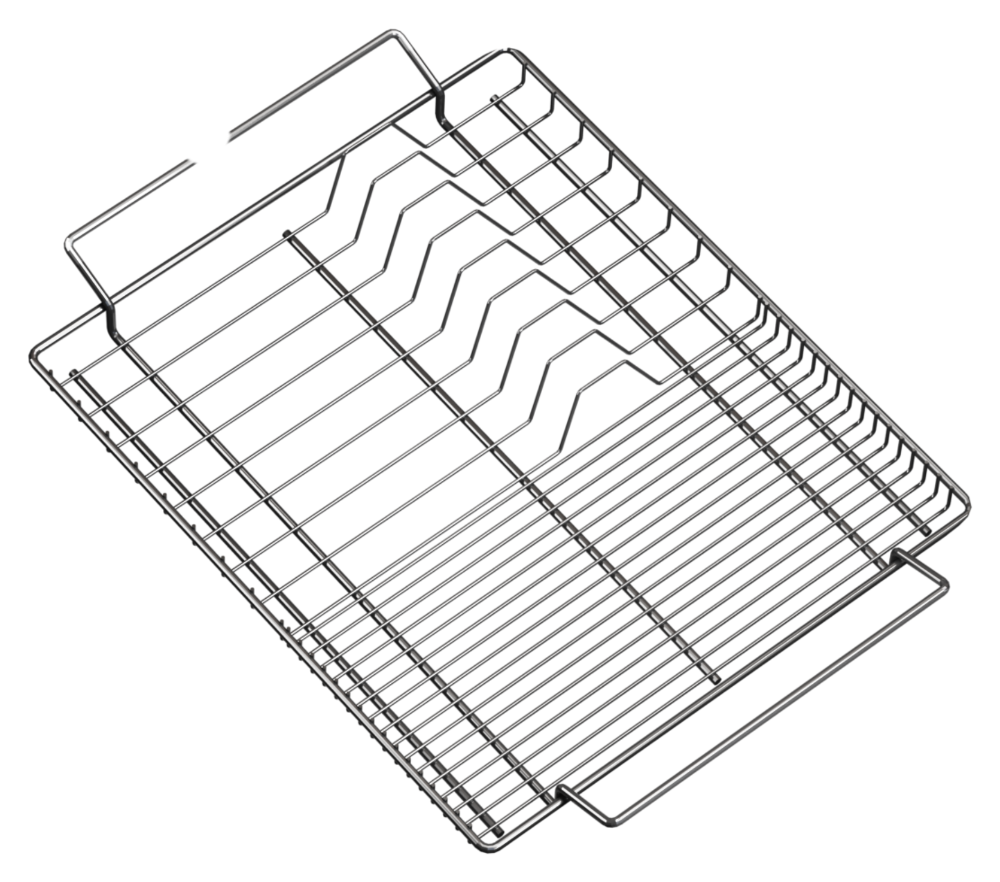
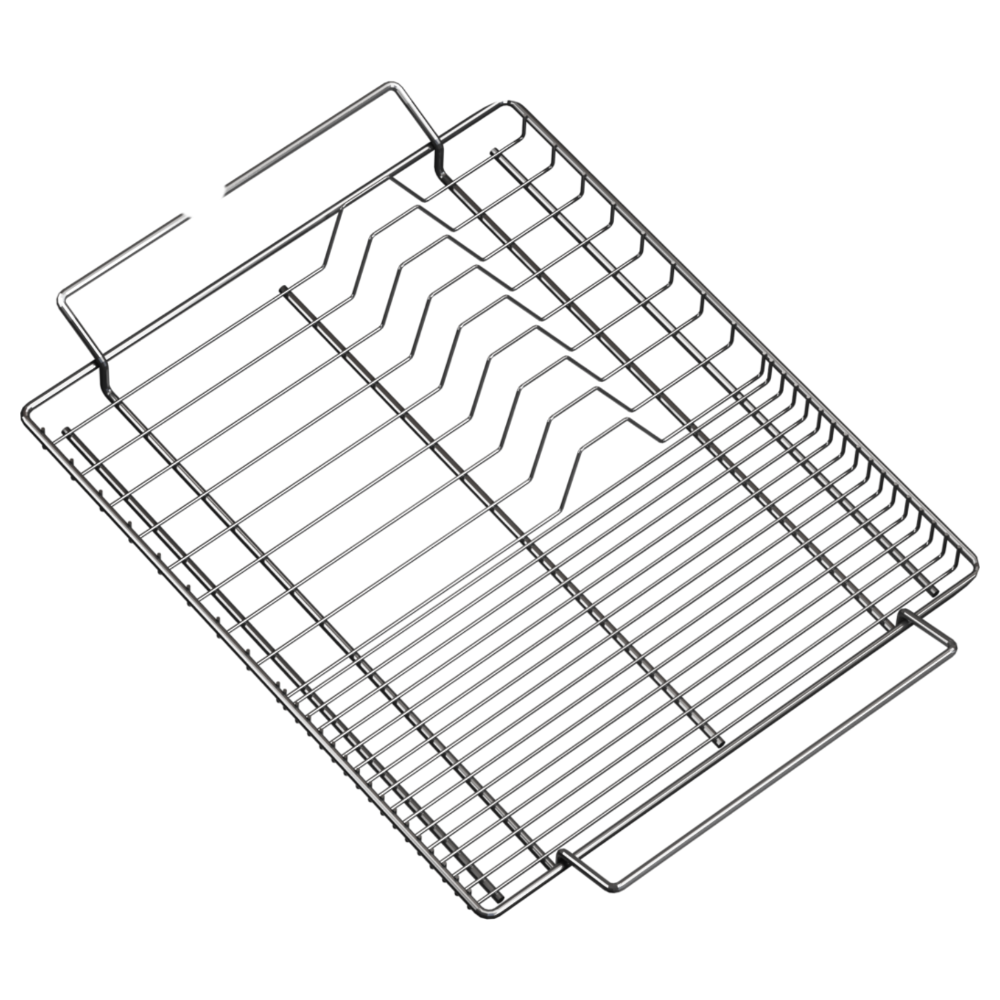
Accesorios: pares alineados al pixel (el objeto ya no salta); la barra queda sin alternancia

diff --git a/index.html b/index.html
@@ -899,10 +899,7 @@
 
     <div class="acc-cards">
       <div class="product">
-        <div class="acc-img acc-dual">
-          <img class="acc-frame on" src="assets/acc-barra.png?v=2" alt="Barra escurridora satinada">
-          <img class="acc-frame" src="assets/acc-barra-negra.png" alt="Barra escurridora negra">
-        </div>
+        <div class="acc-img"><img src="assets/acc-barra.png?v=3" alt="Barra escurridora"></div>
         <h3>Barra escurridora</h3>
         <p>Compartimientos desmontables para un escurrido eficiente y una cocina siempre ordenada.</p>
       </div>
@@ -913,16 +910,16 @@
       </div>
       <div class="product">
         <div class="acc-img acc-dual">
-          <img class="acc-frame on" src="assets/acc-cesto.png?v=2" alt="Cesto escurridor satinado">
-          <img class="acc-frame" src="assets/acc-cesto-rose.png" alt="Cesto escurridor rose">
+          <img class="acc-frame on" src="assets/acc-cesto.png?v=3" alt="Cesto escurridor satinado">
+          <img class="acc-frame" src="assets/acc-cesto-rose.png?v=3" alt="Cesto escurridor rose">
         </div>
         <h3>Cesto escurridor</h3>
         <p>Cesto práctico para escurrir y secar utensilios, manteniendo cada cosa en su lugar.</p>
       </div>
       <div class="product">
         <div class="acc-img acc-dual">
-          <img class="acc-frame on" src="assets/acc-rejilla.png?v=2" alt="Rejilla flexible satinada">
-          <img class="acc-frame" src="assets/acc-rejilla-negra.png" alt="Rejilla flexible negra">
+          <img class="acc-frame on" src="assets/acc-rejilla.png?v=3" alt="Rejilla flexible satinada">
+          <img class="acc-frame" src="assets/acc-rejilla-negra.png?v=3" alt="Rejilla flexible negra">
         </div>
         <h3>Rejilla flexible</h3>
         <p>Se enrolla sobre la pileta para escurrir y secar, y se guarda en un cajón.</p>
